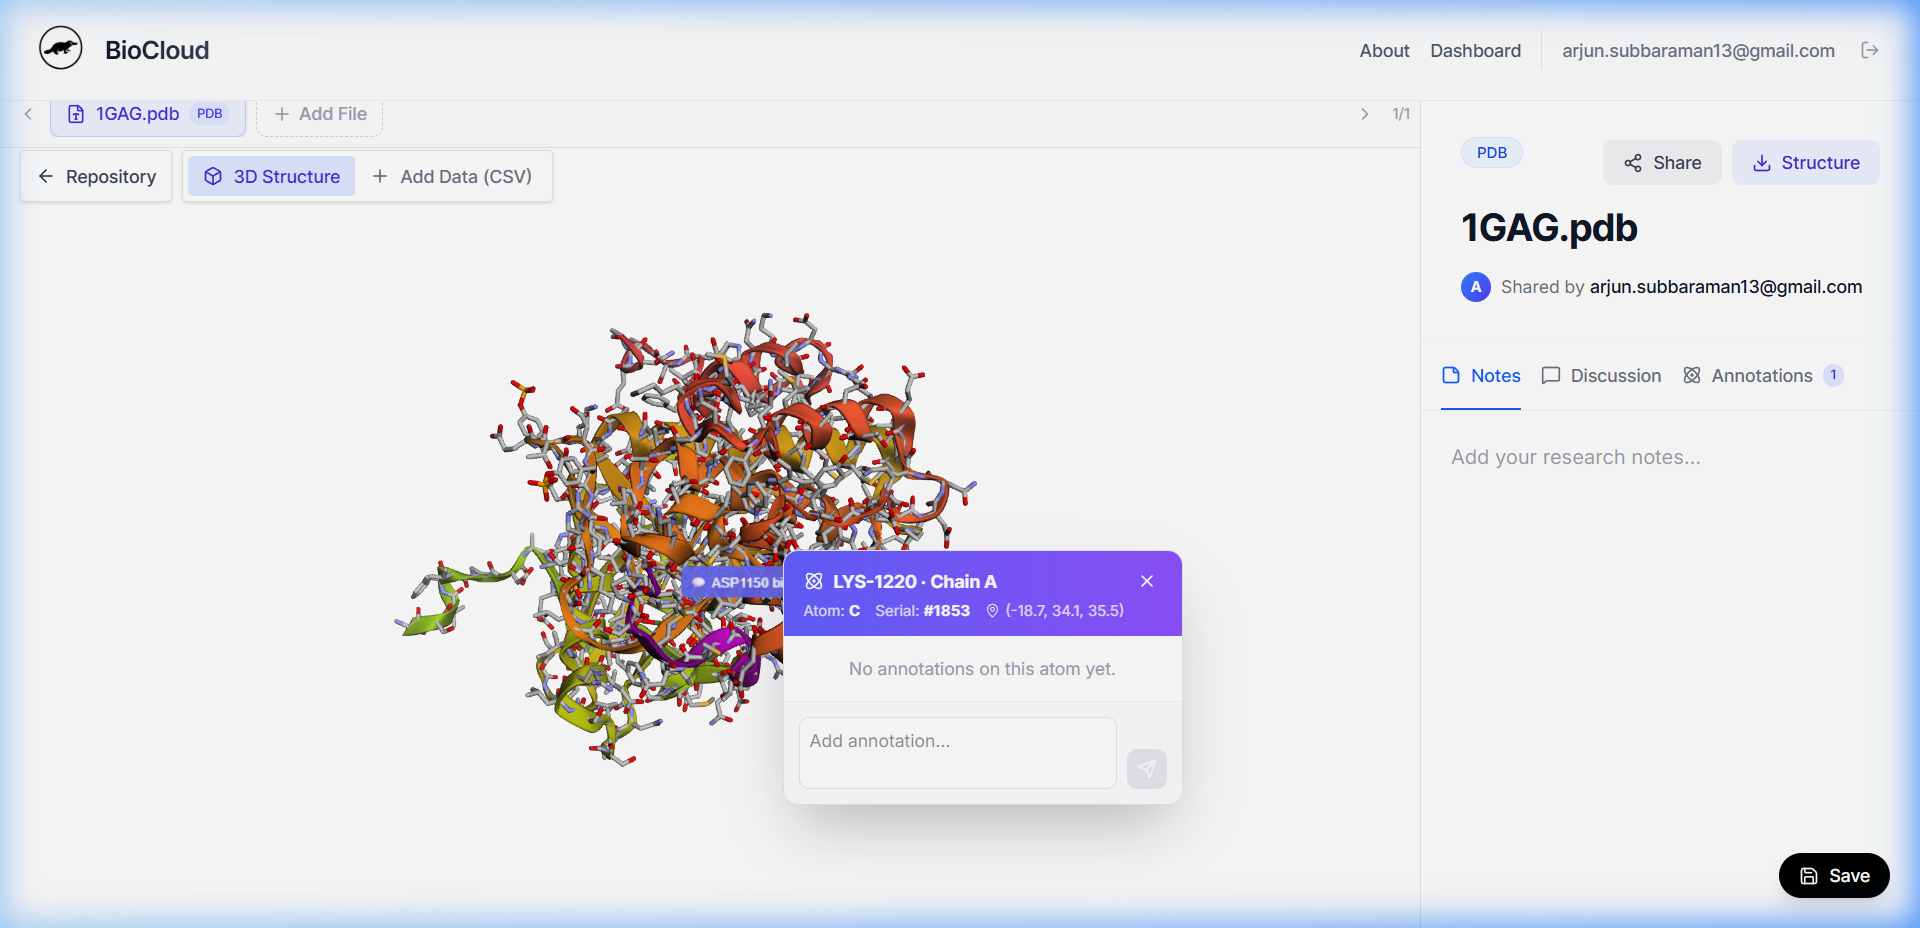
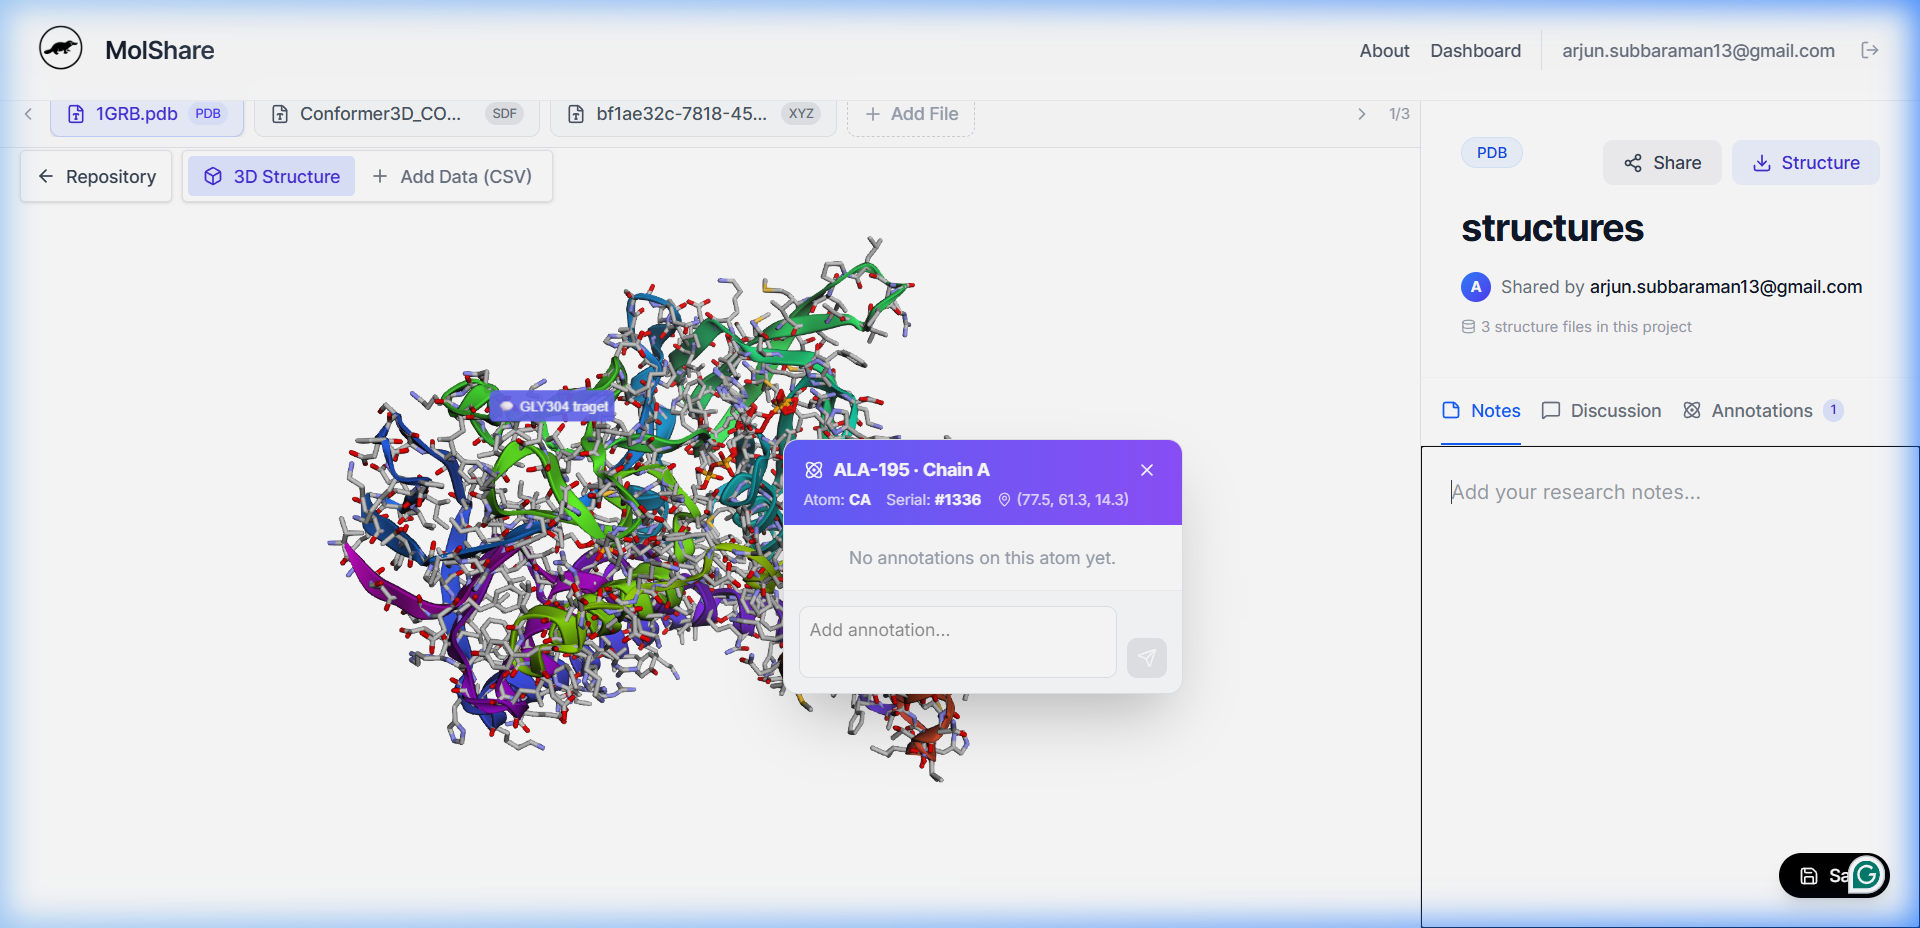
docs: update Fig 2B/2C with fresh MolShare screenshots, update Table 1 with new benchmark data and proof

diff --git a/paper/MolShare_Application_Note.md b/paper/MolShare_Application_Note.md
@@ -90,13 +90,17 @@ Artificial intelligence software (Google Gemini, Antigravity) was employed to he
 
 ### Panel B: Atom Annotation Popup
 
-![Figure 2B — The AtomAnnotationPopup showing atom identity (LYS-1220, Chain A), spatial coordinates, and the text input for adding contextual annotations.](figures/fig2b_annotation_popup.png)
+![Figure 2B — The AtomAnnotationPopup showing atom identity (ALA-195, Chain A), spatial coordinates, and the text input for adding contextual annotations.](figures/fig2b_annotation_popup.png)
+
+*Clicking any atom in the 3D viewer triggers the AtomAnnotationPopup, which displays the atom's identity (residue, chain, serial number, Cartesian coordinates) and lists any existing annotations. Authenticated owners can add new spatially-anchored comments via the text input.*
 
 ---
 
 ### Panel C: Annotation Markers Rendered on the 3D Structure
 
-![Figure 2C — Annotation markers rendered on the 3D structure showing "ASP1150 binding site" as a purple label with translucent indigo sphere at the annotated atom position.](figures/fig2c_annotation_markers.png)
+![Figure 2C — Annotation markers rendered on the 3D structure showing "GLY304 traget" as a label with translucent sphere at the annotated atom position.](figures/fig2c_annotation_markers.png)
+
+*Saved annotations are rendered as translucent spheres with text labels displaying the full comment content directly on the 3D structure. Labels persist across rotations and zoom operations, providing persistent spatial context for collaborative review.*
 
 ---
 
@@ -108,11 +112,17 @@ Artificial intelligence software (Google Gemini, Antigravity) was employed to he
 
 | PDB ID | Structure                 | Atom Count | File Size (KB) | Render Time (ms) | Re-render / Warm (ms) | Interactive FPS |
 |--------|---------------------------|------------|----------------|-------------------|-----------------------|-----------------|
-| 4HHB   | Hemoglobin tetramer       | 4,779      | 463            | **460**           | 3.1                   | **21.9**        |
-| 1JFF   | Glutamate dehydrogenase   | 6,702      | 587            | **803**           | 5.0                   | **22.7**        |
-| 1AON   | GroEL chaperonin          | 58,870     | 4,857          | **1,964**         | 22.5                  | **21.3**        |
+| 4HHB   | Hemoglobin tetramer       | 4,779      | 463            | **494**           | 5.0                   | **23.6**        |
+| 1JFF   | Glutamate dehydrogenase   | 6,702      | 587            | **308**           | 3.9                   | **23.8**        |
+| 1AON   | GroEL chaperonin          | 58,870     | 4,857          | **~1,900**        | ~22                   | **23.2**        |
 
 **Notes:**
 - Render time measures client-side computation only (model parsing + geometry generation + first WebGL draw call), excluding network fetch time.
 - Interactive FPS measured during continuous Y-axis rotation via `requestAnimationFrame`.
 - All tests performed on integrated graphics — discrete GPU hardware is expected to yield higher frame rates.
+
+### Benchmark Proof
+
+![Benchmark results (Hardware info + 4HHB) — showing AMD Radeon 740M GPU, 12 cores, 8 GB RAM, and Hemoglobin render time of 494ms.](figures/fig_benchmark_top.png)
+
+![Benchmark results (1JFF + 1AON) — showing Glutamate DH render time of 308ms at 23.8 FPS, and GroEL FPS measurement of 23.2.](figures/fig_benchmark_results.png)
